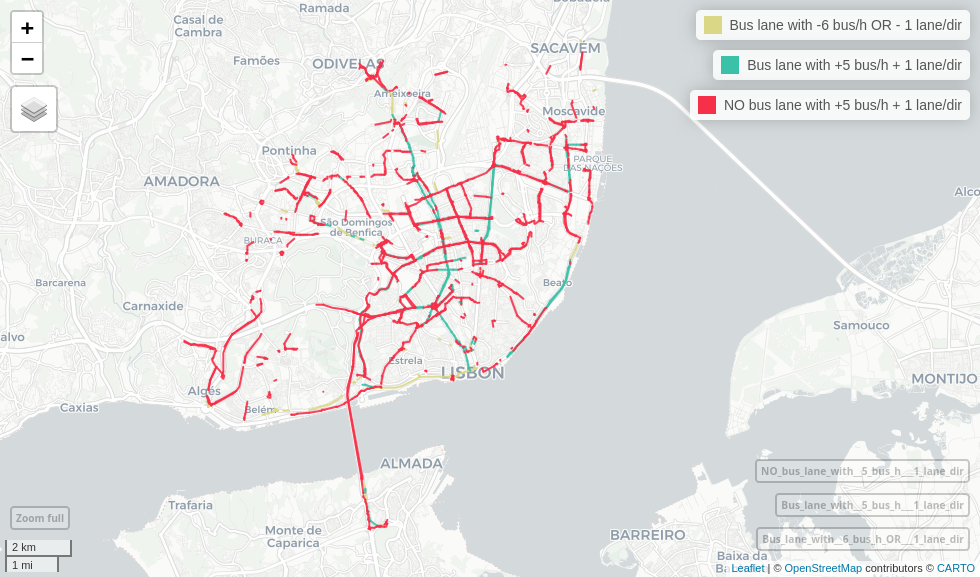
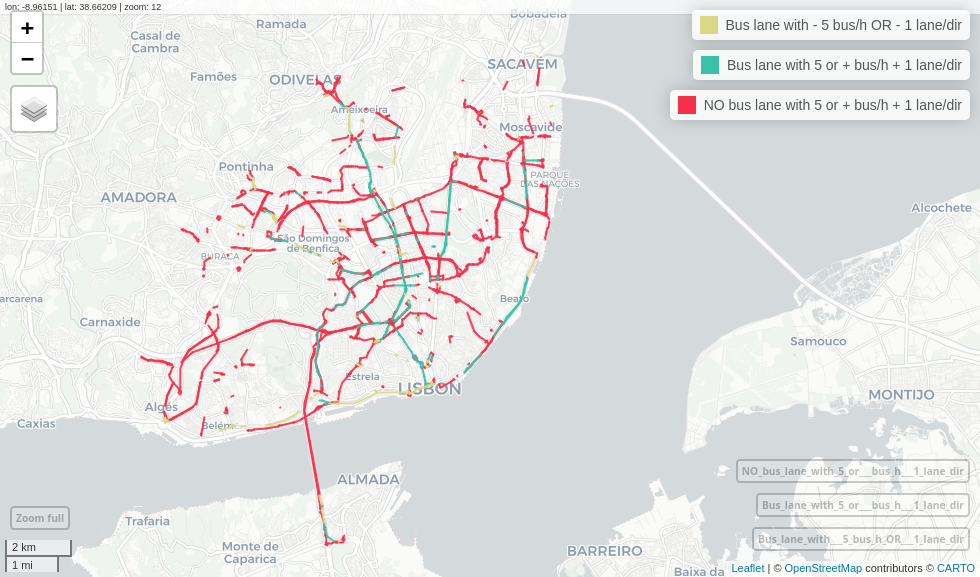
#38 prioritize_lanes maps improved for more consistent layer names

diff --git a/README.md b/README.md
@@ -32,16 +32,16 @@ osm_q = opq(bbox=sf::st_bbox(tidytransit::shapes_as_sf(gtfs$shapes)))  |>
 lanes = prioritize_lanes(gtfs, osm_q)
 
 mapview::mapview(
-  lanes |> filter((frequency<5 | (is.na(n_lanes) | n_lanes_direction<=1)) & is_bus_lane),
-  layer.name="Bus lane with -6 bus/h OR - 1 lane/dir",
+  lanes |> filter((frequency<=4 | (is.na(n_lanes) | n_lanes_direction<=1)) & is_bus_lane),
+  layer.name="Bus lane with - 5 bus/h OR - 1 lane/dir",
   color="#DAD887"
 ) + mapview::mapview(
   lanes |> filter(frequency>=5 & !is.na(n_lanes) & n_lanes_direction>1 & is_bus_lane),
-  layer.name="Bus lane with +5 bus/h + 1 lane/dir",
+  layer.name="Bus lane with 5 or + bus/h + 1 lane/dir",
   color="#3BC1A8"
 ) + mapview::mapview(
-  lanes |> filter(frequency>5 & !is.na(n_lanes) & n_lanes_direction>1 & !is_bus_lane),
-  layer.name="NO bus lane with +5 bus/h + 1 lane/dir",
+  lanes |> filter(frequency>=5 & !is.na(n_lanes) & n_lanes_direction>1 & !is_bus_lane),
+  layer.name="NO bus lane with 5 or + bus/h + 1 lane/dir",
   color="#F63049"
 )
 ```
